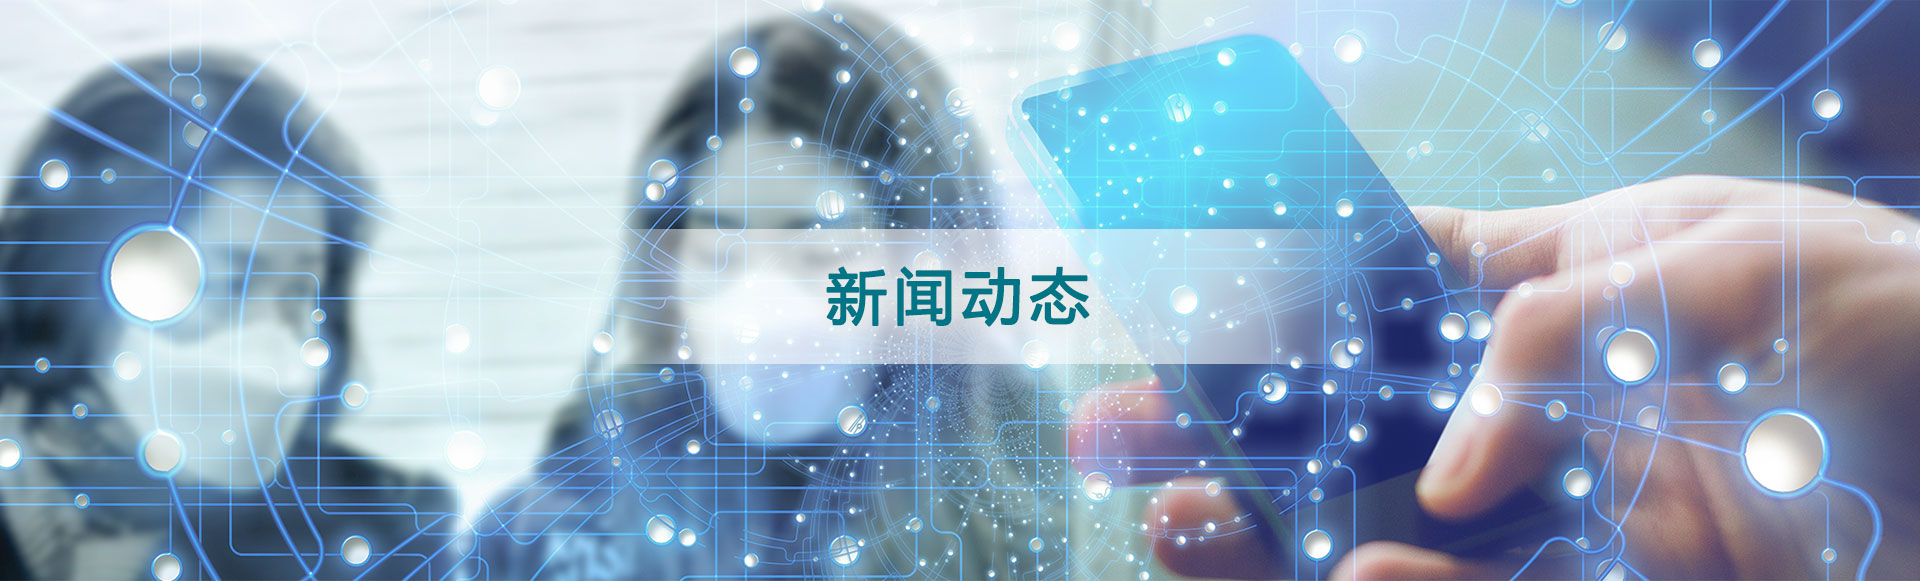
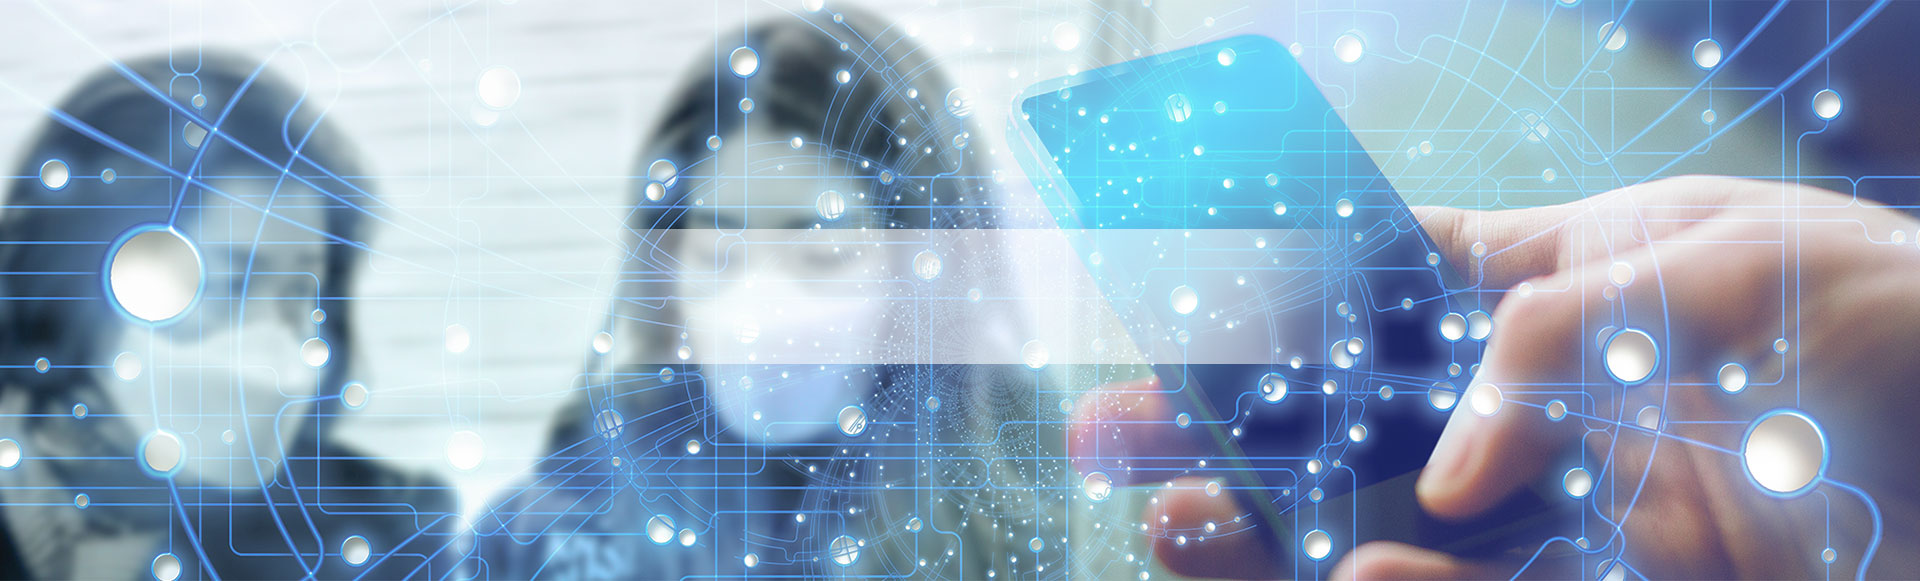
新闻详情页修改

Changed region(s): [[0.4062, 0.4647, 0.5625, 0.5577]]

diff --git a/src/lang/en.js b/src/lang/en.js
@@ -1,3 +1,42 @@
 module.exports = {
-  nav: {}
+  nav: ["首页", "团队", "技术生态", "产业合作", "白皮书", "新闻"],
+  whitePager: "/pdf/zh/newpower.pdf",
+  news: {
+    tit: "新闻动态",
+    more: "更多",
+    loadmore: "加载更多",
+    loadend: "没有更多了"
+  },
+  img: {
+    banner: "/static/zh/banner_txt.png",
+    tit3: "/static/zh/tit_3.jpg",
+    fk: ["/static/zh/fk_1.jpg", "/static/zh/fk_2.jpg", "/static/zh/fk_3.jpg"]
+  },
+  history: [
+    {
+      t1: "2019-06",
+      t2: "Q1",
+      txt: "项目发布与治理结构搭建"
+    },
+    {
+      t1: "2019-06",
+      t2: "Q1",
+      txt: "中英美研发平台搭建<br>原理模型试验结果发布"
+    },
+    {
+      t1: "2019-06",
+      t2: "Q1",
+      txt: "测试平台上线<br>合约开发环境"
+    },
+    {
+      t1: "2019-06",
+      t2: "Q1",
+      txt: "平台上线合约<br>商城上线<br>先心安产品化"
+    },
+    {
+      t1: "2019-06",
+      t2: "Q1",
+      txt: "专病精准多级诊疗系统<br>算法路由末端芯片研发"
+    }
+  ]
 };

diff --git a/src/views/News.vue b/src/views/News.vue
@@ -1,6 +1,8 @@
 <template>
   <div class="container">
-    <div class="banner"></div>
+    <div class="banner-news">
+      <span>{{ $t("news.tit") }}</span>
+    </div>
     <div class="news-list" v-if="listArr.length > 0">
       <router-link
         tag="div"
@@ -67,6 +69,9 @@ export default {
         .then(res => {
           this.isLoading = false;
           this.listArr = [...this.listArr, ...res.data];
+          if (this.listArr.length == 0) {
+            this.isOver = true;
+          }
         })
         .catch(err => {
           if (err.isAxiosError) {
@@ -90,10 +95,17 @@ export default {
 };
 </script>
 
-<style lang="less">
-.banner {
+<style lang="less" scoped>
+.banner-news {
   height: 581px;
   background: url("../assets/banner_news.jpg") center 0 no-repeat;
+  display: flex;
+  align-items: center;
+  justify-content: center;
+  span {
+    font-size: 60px;
+    color: #007586;
+  }
 }
 .news-list {
   width: 1200px;

diff --git a/src/views/Detail.vue b/src/views/Detail.vue
@@ -1,6 +1,8 @@
 <template>
   <div class="container">
-    <div class="banner"></div>
+    <div class="banner-news">
+      <span>{{ $t("news.tit") }}</span>
+    </div>
     <div class="detail" v-if="newsCon">
       <div class="section">
         <div class="infos">
@@ -54,10 +56,17 @@ export default {
 };
 </script>
 
-<style scoped lang="less">
-.banner {
+<style lang="less" scoped>
+.banner-news {
   height: 581px;
   background: url("../assets/banner_news.jpg") center 0 no-repeat;
+  display: flex;
+  align-items: center;
+  justify-content: center;
+  span {
+    font-size: 60px;
+    color: #007586;
+  }
 }
 .detail {
   overflow: hidden;

diff --git a/src/lang/zh.js b/src/lang/zh.js
@@ -2,6 +2,7 @@ module.exports = {
   nav: ["首页", "团队", "技术生态", "产业合作", "白皮书", "新闻"],
   whitePager: "/pdf/zh/newpower.pdf",
   news: {
+    tit: "新闻动态",
     more: "更多",
     loadmore: "加载更多",
     loadend: "没有更多了"

diff --git a/src/router.js b/src/router.js
@@ -6,7 +6,7 @@ Vue.use(Router)
 export default new Router({
   routes: [
     {
-      path: '/',
+      path: '/index',
       name: 'home',
       component: resolve => require(['./views/Home'], resolve)
     }, {

diff --git a/src/views/Home.vue b/src/views/Home.vue
@@ -174,7 +174,7 @@ export default {
 };
 </script>
 
-<style lang="less">
+<style lang="less" scoped>
 @import "../css/animate.less";
 .banner-container {
   margin: 0 auto;

diff --git a/src/main.js b/src/main.js
@@ -21,6 +21,10 @@ const i18n = new VueI18n({
   }
 });
 
+router.afterEach((to, from, next) => {
+  window.scrollTo(0, 0);
+});
+
 new Vue({
   router,
   store,

diff --git a/README.md b/README.md
@@ -1,2 +1,5 @@
 # seele
 seele
+
+seele-n-en-news  id=13
+seele-n-cn-news  id=12
